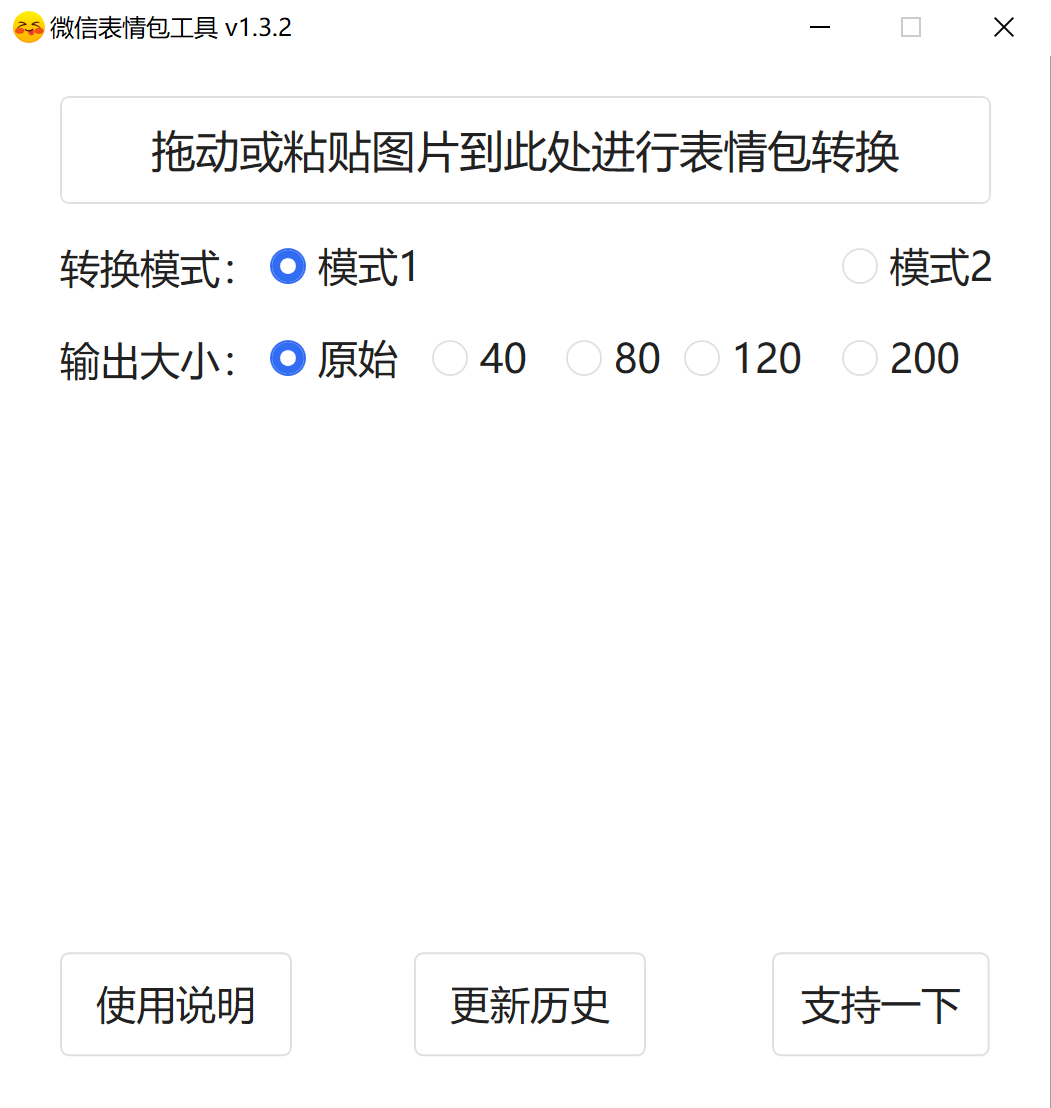
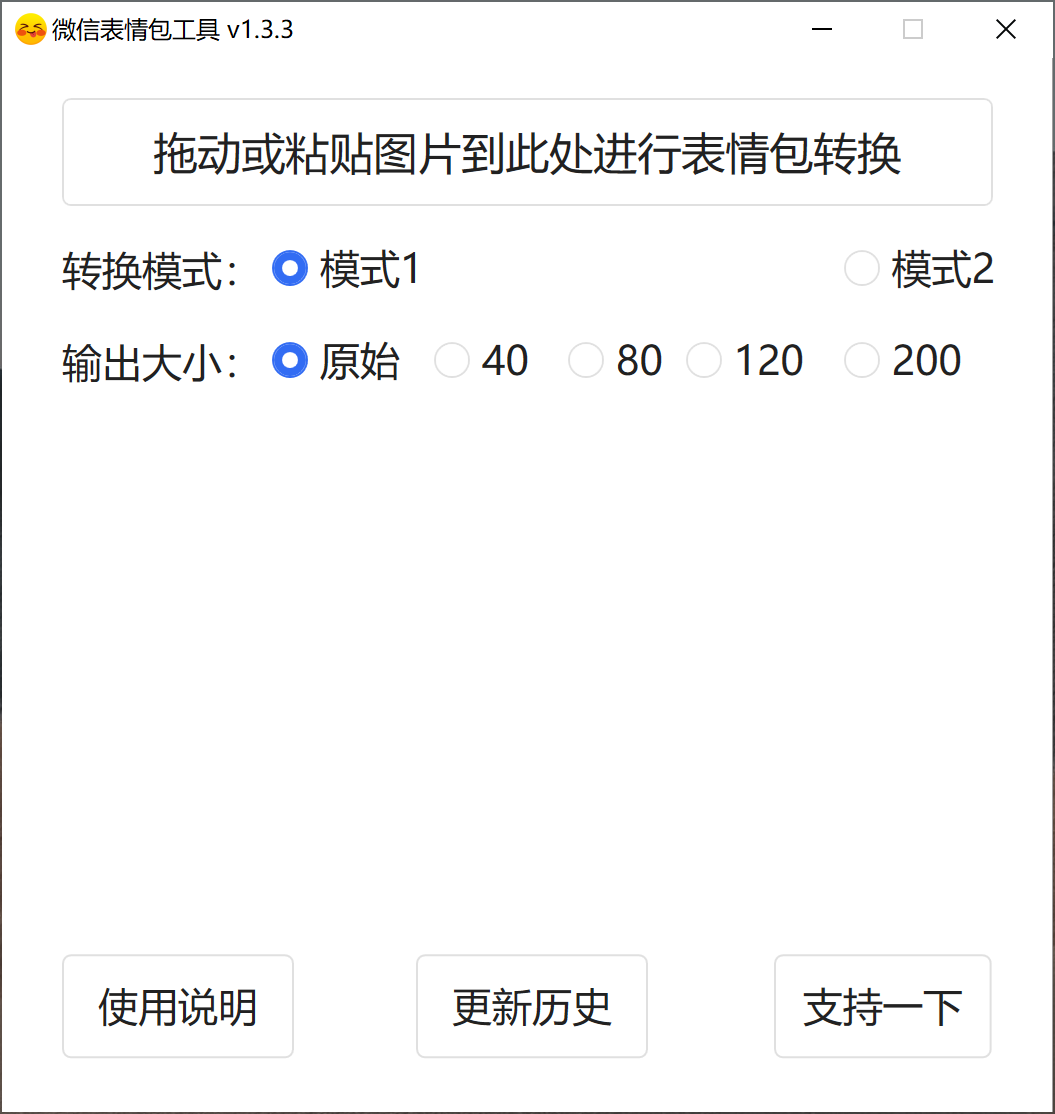
使用 `NetBeauty` 替换 `PrettyBin`

diff --git a/pic2meme/MainWindow.xaml b/pic2meme/MainWindow.xaml
@@ -5,7 +5,7 @@
         xmlns:mc="http://schemas.openxmlformats.org/markup-compatibility/2006"
         xmlns:local="clr-namespace:pic2meme" xmlns:hc="https://handyorg.github.io/handycontrol"
         mc:Ignorable="d"
-        Title="微信表情包工具 v1.3.2" Height="562.632" Width="538.297" AllowDrop="True" Drop="Window_Drop" KeyDown="Window_KeyDown" ResizeMode="CanMinimize">
+        Title="微信表情包工具 v1.3.3" Height="562.632" Width="538.297" AllowDrop="True" Drop="Window_Drop" KeyDown="Window_KeyDown" ResizeMode="CanMinimize">
     <Grid>
         <Label x:Name="Notice" Content="拖动或粘贴图片到此处进行表情包转换" FontSize="22" Margin="30,20,30,0" VerticalAlignment="Top" Height="54" HorizontalContentAlignment="Center" VerticalContentAlignment="Center" HorizontalAlignment="Stretch" />
         <hc:GifImage x:Name="Preview" Stretch="Uniform" Height="200" Width="200" Margin="166,191,166.5,116" />

diff --git a/pic2meme/ChangeLogWindow.xaml.cs b/pic2meme/ChangeLogWindow.xaml.cs
@@ -25,6 +25,9 @@ namespace pic2meme
             this.MinWidth = this.MaxWidth = this.Width;
             this.MinHeight = this.MaxHeight = this.Height;
             ChangeLog.Text = @"
+v1.3.3 - 2023/05/04
+1. 修复图片超过1024时，发送到微信会变成文件的问题
+
 v1.3.2 - 2023/05/03
 1. 取消1024大小限制，增加200*200的输出大小
 
